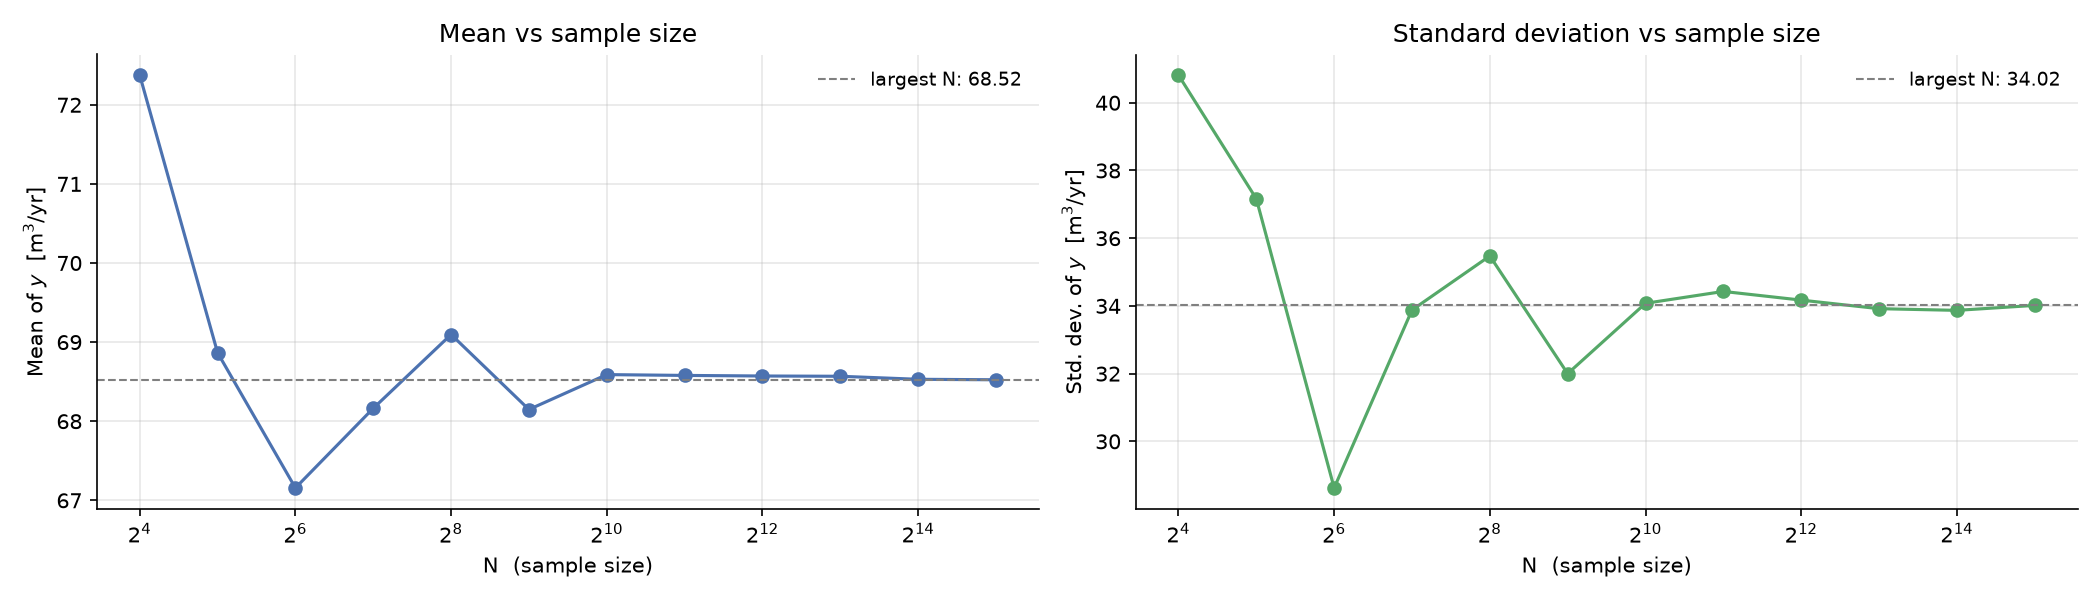
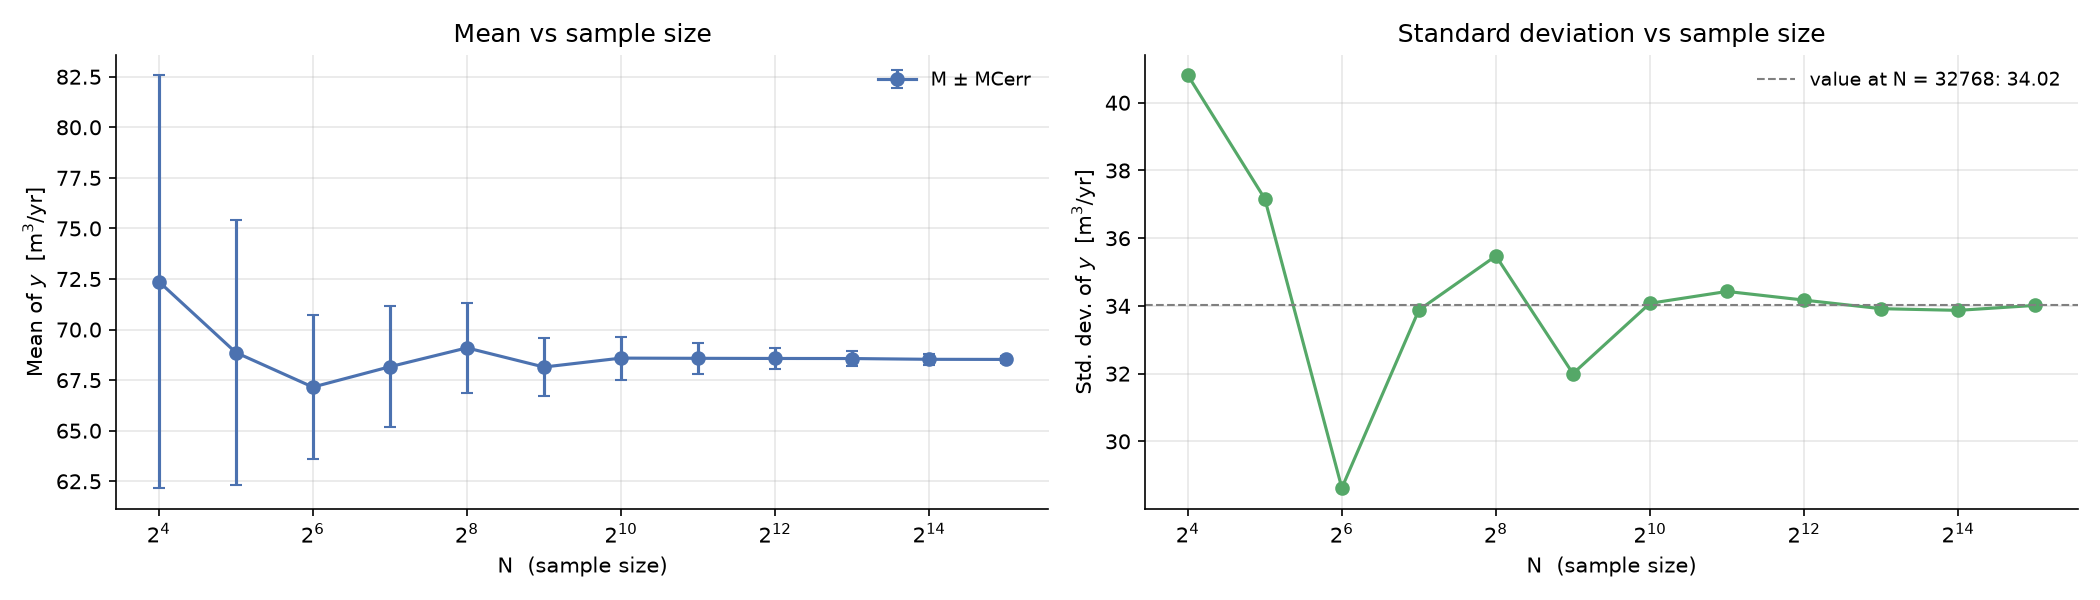
update M/S plot to include the Monte Carlo Error

diff --git a/assignment.py b/assignment.py
@@ -98,22 +98,23 @@ def run_mc(n, seed):
 Ns = 2 ** np.arange(4, 16)          # 16, 32, ... 32768
 M_conv = np.zeros(len(Ns))          # mean at each sample size
 S_conv = np.zeros(len(Ns))          # std dev at each sample size
+E_conv = np.zeros(len(Ns))          # Monte Carlo error at each sample size
 
 for i, n in enumerate(Ns):
-    y = run_mc(n, seed=seed)        
+    y = run_mc(n, seed=seed)
     M_conv[i] = y.mean()
     S_conv[i] = y.std(ddof=1)
+    E_conv[i] = S_conv[i] / np.sqrt(n)
 
 fig3, axs = plt.subplots(1, 2, figsize=(14, 4))
-axs[0].plot(Ns, M_conv, 'o-', color='#4C72B0')
-axs[0].axhline(M_conv[-1], color='grey', ls='--', lw=1,
-               label=f'largest N: {M_conv[-1]:.2f}')
+axs[0].errorbar(Ns, M_conv, yerr=E_conv, fmt='o-', color='#4C72B0',
+                capsize=3, lw=1.5, label=r'M $\pm$ MCerr')
 axs[0].set_ylabel('Mean of $y$  [m$^3$/yr]')
 axs[0].set_title('Mean vs sample size')
 
 axs[1].plot(Ns, S_conv, 'o-', color='#55A868')
 axs[1].axhline(S_conv[-1], color='grey', ls='--', lw=1,
-               label=f'largest N: {S_conv[-1]:.2f}')
+               label=f'value at N = {Ns[-1]}: {S_conv[-1]:.2f}')
 axs[1].set_ylabel('Std. dev. of $y$  [m$^3$/yr]')
 axs[1].set_title('Standard deviation vs sample size')
 
